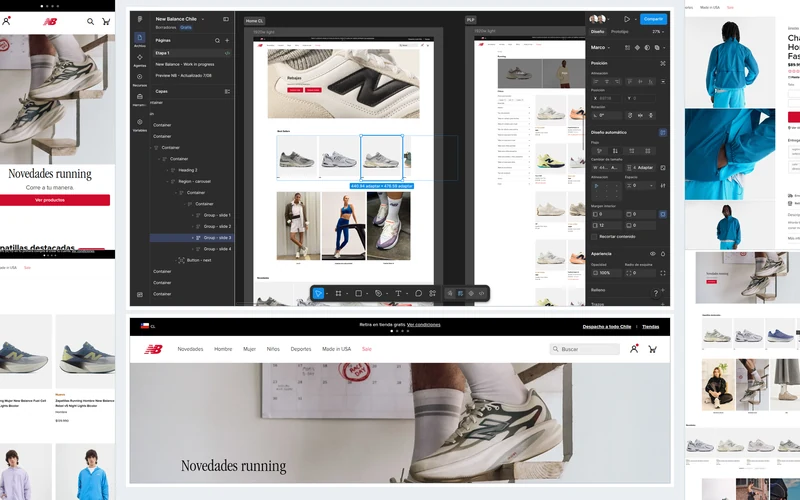
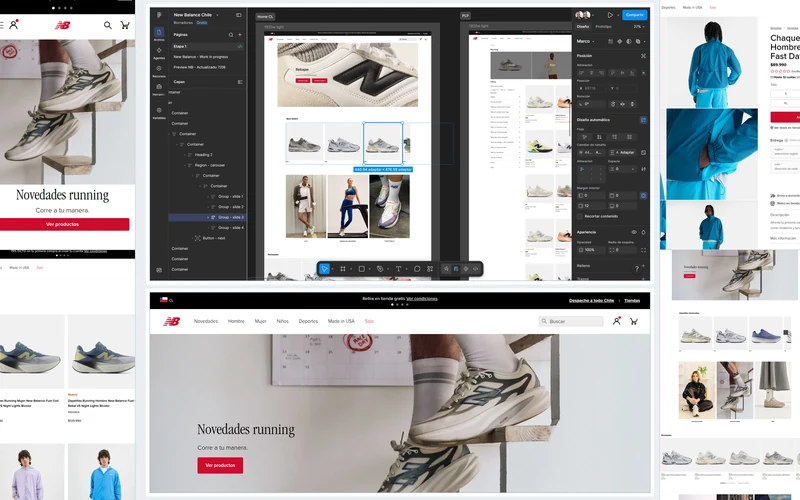
Tarjetas: imagen cuadrada recortada; el mosaico da más aire al sitio
En la tarjeta la imagen va cuadrada con cover, así llena el panel y todas
las tarjetas quedan con la misma silueta. Abierta en el modal se sigue
viendo entera, que es donde el mosaico se lee.

El video queda afuera de la regla: recortarlo a cuadrado le comía la
mitad del encuadre.

Y en el mosaico, el sitio en producción pasa de 330 a 400 de alto: había
quedado muy recortado y era lo que más se perdía.

diff --git a/css/style.css b/css/style.css
@@ -365,9 +365,14 @@ a:hover { color: var(--accent); }
 .case > .case__media figcaption { display: none; }
 .case > .case__media img,
 .case > .case__media video {
-  width: 100%; height: auto; max-height: 44rem; object-fit: contain;
+  width: 100%; height: auto; max-height: 44rem;
   border-radius: 8px; box-shadow: 0 6px 20px rgba(0,0,0,.18);
 }
+/* En la tarjeta la imagen va cuadrada y recortada: llena el panel y todas las
+   tarjetas quedan con la misma silueta. La imagen completa se ve en el modal.
+   El video queda fuera: recortarlo a cuadrado le come la mitad del encuadre. */
+.case > .case__media img { aspect-ratio: 1 / 1; object-fit: cover; }
+.case > .case__media video { object-fit: contain; }
 .case > .case__media video { background: #000; }
 
 .case__body { padding: clamp(1.5rem, 3vw, 2.25rem); display: flex; flex-direction: column; }
